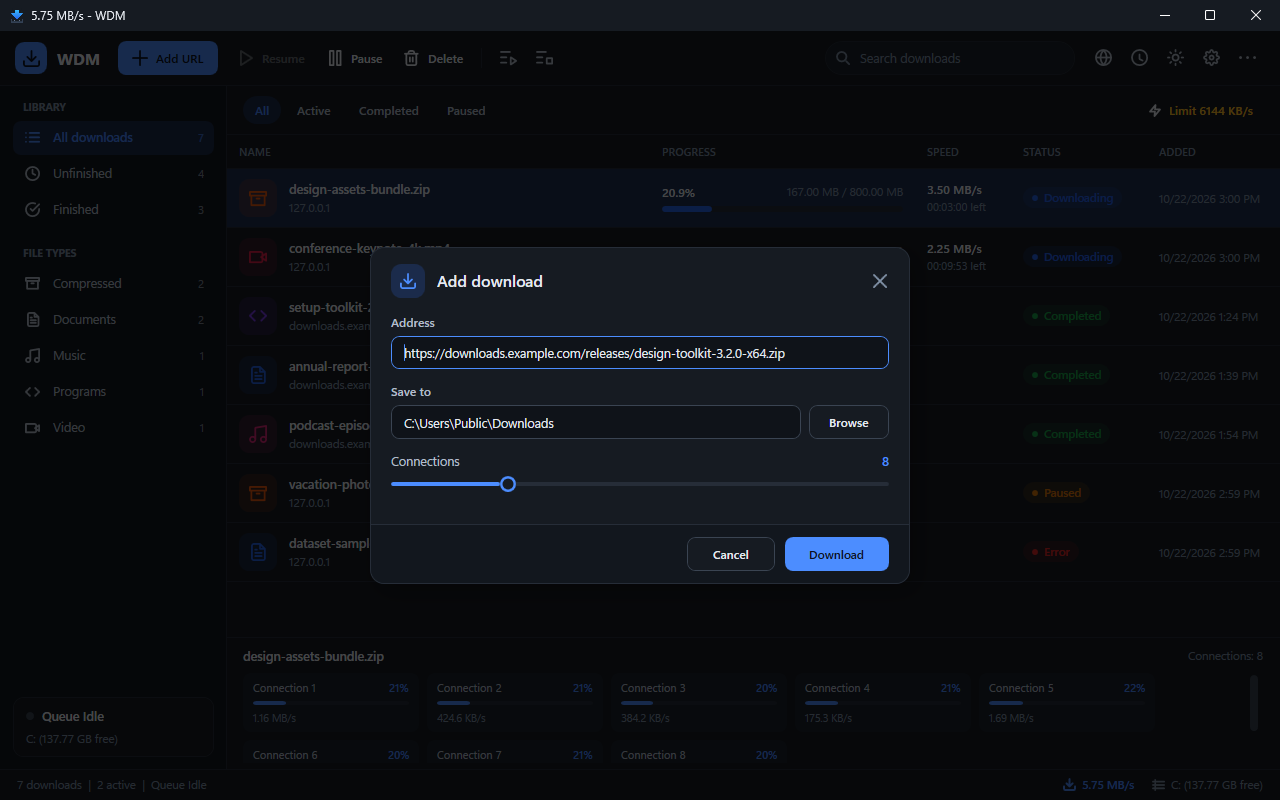
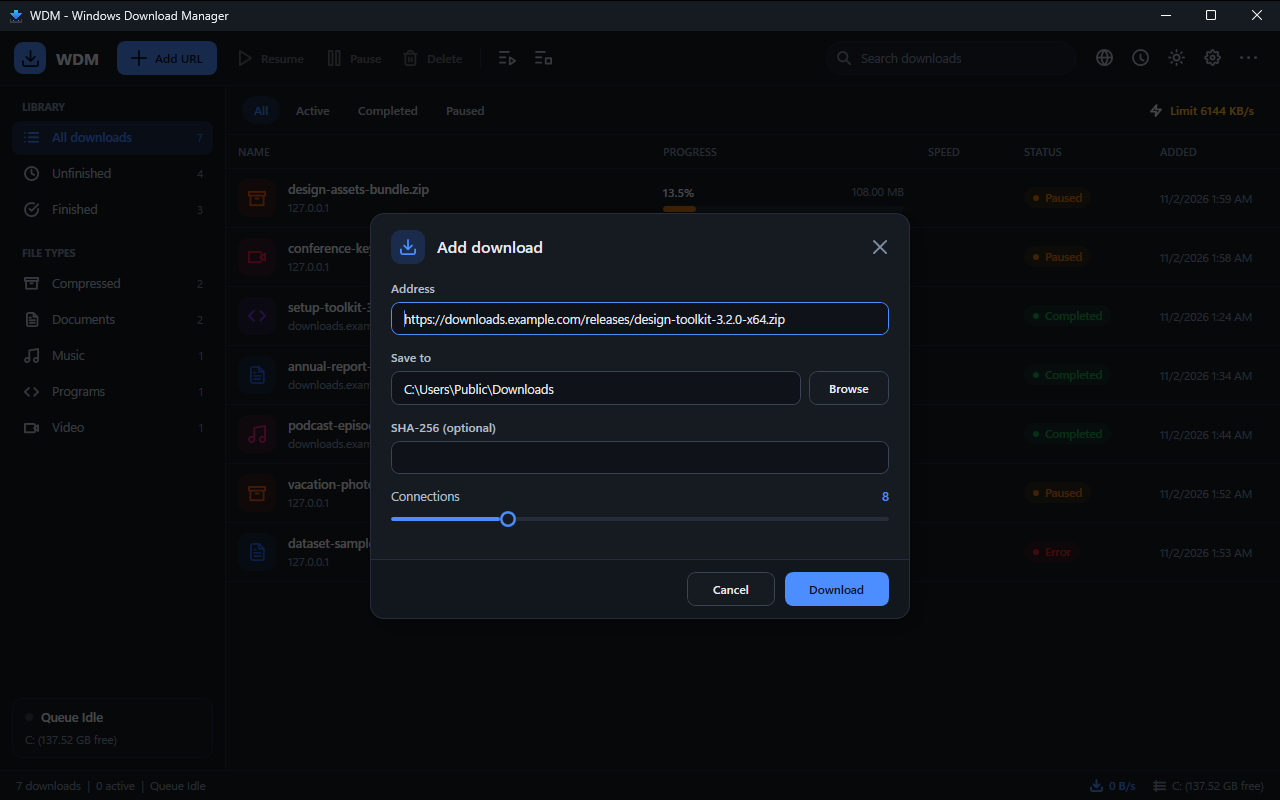
fix(ui): accessible names for toolbar buttons and every input, queue status without doubled bullet; docs: README facts (147 tests, takeover rules, signing status), real 2.0 screenshots

diff --git a/src/Wdm.Ui/MainWindow.xaml b/src/Wdm.Ui/MainWindow.xaml
@@ -46,25 +46,25 @@
 
                     <!-- Primary actions -->
                     <StackPanel Grid.Column="1" Orientation="Horizontal" VerticalAlignment="Center">
-                        <Button Style="{StaticResource AccentBtn}" Click="OnAddUrlClick" ToolTip="Add a download (Ctrl+N)" Margin="0,0,10,0">
+                        <Button Style="{StaticResource AccentBtn}" Click="OnAddUrlClick" ToolTip="Add a download (Ctrl+N)" Margin="0,0,10,0" AutomationProperties.Name="Add URL">
                             <StackPanel Orientation="Horizontal">
                                 <Path Data="{StaticResource GeoPlus}" Style="{StaticResource Ico}" Width="16" Height="16" />
                                 <TextBlock Text="Add URL" Margin="8,0,0,0" VerticalAlignment="Center"/>
                             </StackPanel>
                         </Button>
-                        <Button Style="{StaticResource CmdBtn}" Click="OnResumeClick" ToolTip="Resume the selected download" Margin="0,0,2,0" IsEnabled="{Binding CanResumeSelected}">
+                        <Button Style="{StaticResource CmdBtn}" Click="OnResumeClick" ToolTip="Resume the selected download" Margin="0,0,2,0" IsEnabled="{Binding CanResumeSelected}" AutomationProperties.Name="Resume">
                         <StackPanel Orientation="Horizontal">
                             <Path Data="{StaticResource GeoPlay}" Style="{StaticResource Ico}" Width="16" Height="16" />
                             <TextBlock Text="Resume" Margin="8,0,0,0" VerticalAlignment="Center"/>
                         </StackPanel>
                     </Button>
-                        <Button Style="{StaticResource CmdBtn}" Click="OnPauseClick" ToolTip="Pause the selected download" Margin="0,0,2,0" IsEnabled="{Binding CanPauseSelected}">
+                        <Button Style="{StaticResource CmdBtn}" Click="OnPauseClick" ToolTip="Pause the selected download" Margin="0,0,2,0" IsEnabled="{Binding CanPauseSelected}" AutomationProperties.Name="Pause">
                         <StackPanel Orientation="Horizontal">
                             <Path Data="{StaticResource GeoPause}" Style="{StaticResource Ico}" Width="16" Height="16" />
                             <TextBlock Text="Pause" Margin="8,0,0,0" VerticalAlignment="Center"/>
                         </StackPanel>
                     </Button>
-                        <Button Style="{StaticResource CmdBtn}" Click="OnDeleteClick" ToolTip="Remove the selected download (Del)" Margin="0,0,8,0" IsEnabled="{Binding HasSelection}">
+                        <Button Style="{StaticResource CmdBtn}" Click="OnDeleteClick" ToolTip="Remove the selected download (Del)" Margin="0,0,8,0" IsEnabled="{Binding HasSelection}" AutomationProperties.Name="Delete">
                         <StackPanel Orientation="Horizontal">
                             <Path Data="{StaticResource GeoTrash}" Style="{StaticResource Ico}" Width="16" Height="16" />
                             <TextBlock Text="Delete" Margin="8,0,0,0" VerticalAlignment="Center"/>
@@ -90,7 +90,7 @@
                             </Grid.ColumnDefinitions>
                             <Path Data="{StaticResource GeoSearch}" Style="{StaticResource Ico}" Width="14" Height="14" HorizontalAlignment="Center"
                                   TextElement.Foreground="{DynamicResource ThemeTextMuted}"/>
-                            <TextBox x:Name="SearchBox" Grid.Column="1" Text="{Binding SearchText, UpdateSourceTrigger=PropertyChanged}" Background="Transparent"
+                            <TextBox AutomationProperties.Name="Search downloads" x:Name="SearchBox" Grid.Column="1" Text="{Binding SearchText, UpdateSourceTrigger=PropertyChanged}" Background="Transparent"
                                      BorderThickness="0" Padding="0,0,0,1" VerticalAlignment="Center" ToolTip="Search downloads (Ctrl+F)"/>
                             <TextBlock Grid.Column="1" Text="Search downloads" IsHitTestVisible="False" Foreground="{DynamicResource ThemeTextMuted}" VerticalAlignment="Center">
                                 <TextBlock.Style>
@@ -406,7 +406,7 @@
                 <Border DockPanel.Dock="Top" Padding="16,10" BorderBrush="{DynamicResource ThemeBorder}" BorderThickness="0,0,0,1">
                     <DockPanel>
                         <Button DockPanel.Dock="Right" Style="{StaticResource CmdBtn}" Click="OnToggleSpeedLimiterClick" MinHeight="28" Padding="10,0"
-                                ToolTip="Click to turn the speed limit on or off">
+                                ToolTip="Click to turn the speed limit on or off" AutomationProperties.Name="Speed limit">
                             <StackPanel Orientation="Horizontal">
                                 <Path Data="{StaticResource GeoBolt}" Style="{StaticResource Ico}" Width="13" Height="13" />
                                 <TextBlock Margin="7,0,0,0" FontSize="12">
@@ -454,7 +454,7 @@
                 </Border>
 
                 <Grid>
-                    <DataGrid x:Name="DownloadsGrid" ItemsSource="{Binding FilteredDownloads}"
+                    <DataGrid AutomationProperties.Name="Downloads" x:Name="DownloadsGrid" ItemsSource="{Binding FilteredDownloads}"
                               SelectedItem="{Binding SelectedDownload, Mode=TwoWay}"
                               MouseDoubleClick="OnDownloadsGridMouseDoubleClick"
                               AutoGenerateColumns="False" CanUserAddRows="False" CanUserDeleteRows="False" IsReadOnly="True"
@@ -638,7 +638,7 @@
                             <ColumnDefinition Width="*"/>
                             <ColumnDefinition Width="Auto"/>
                         </Grid.ColumnDefinitions>
-                        <TextBox Text="{Binding NewDownloadDir, UpdateSourceTrigger=PropertyChanged}"/>
+                        <TextBox AutomationProperties.Name="Save to folder" Text="{Binding NewDownloadDir, UpdateSourceTrigger=PropertyChanged}"/>
                         <Button Grid.Column="1" Content="Browse" Margin="8,0,0,0" Style="{StaticResource BtnSecondary}" MinWidth="80" Click="OnBrowseFolderClick"/>
                     </Grid>
 
@@ -653,7 +653,7 @@
                             <TextBlock Text="{Binding NewDownloadConnections, StringFormat='{}{0}'}" FontWeight="SemiBold" Foreground="{DynamicResource ThemeAccent}" DockPanel.Dock="Right"/>
                             <TextBlock Text="Connections" Foreground="{DynamicResource ThemeTextSecondary}"/>
                         </DockPanel>
-                        <Slider Minimum="1" Maximum="32" Value="{Binding NewDownloadConnections}" Margin="0,0,0,10" SmallChange="1" TickFrequency="1" IsSnapToTickEnabled="True"/>
+                        <Slider AutomationProperties.Name="Connections" Minimum="1" Maximum="32" Value="{Binding NewDownloadConnections}" Margin="0,0,0,10" SmallChange="1" TickFrequency="1" IsSnapToTickEnabled="True"/>
                 </StackPanel>
                 <ctl:DialogCard.Footer>
                     <StackPanel Orientation="Horizontal" HorizontalAlignment="Right">
@@ -677,7 +677,7 @@
                                         <ColumnDefinition Width="*"/>
                                         <ColumnDefinition Width="Auto"/>
                                     </Grid.ColumnDefinitions>
-                                    <TextBox Text="{Binding Settings.DefaultDownloadDirectory, UpdateSourceTrigger=PropertyChanged}"/>
+                                    <TextBox AutomationProperties.Name="Default download folder" Text="{Binding Settings.DefaultDownloadDirectory, UpdateSourceTrigger=PropertyChanged}"/>
                                     <Button Grid.Column="1" Content="Browse" Margin="8,0,0,0" Style="{StaticResource BtnSecondary}" MinWidth="80" Click="OnBrowseSettingsFolderClick"/>
                                 </Grid>
                             </GroupBox>
@@ -698,17 +698,17 @@
                             <TextBlock Text="{Binding Settings.DefaultConnections, StringFormat='{}{0}'}" FontWeight="SemiBold" Foreground="{DynamicResource ThemeAccent}" DockPanel.Dock="Right"/>
                             <TextBlock Text="Connections per download" Foreground="{DynamicResource ThemeTextSecondary}"/>
                         </DockPanel>
-                        <Slider Minimum="1" Maximum="32" Value="{Binding Settings.DefaultConnections}" Margin="0,0,0,10" SmallChange="1" TickFrequency="1" IsSnapToTickEnabled="True"/>
+                        <Slider AutomationProperties.Name="Default connections" Minimum="1" Maximum="32" Value="{Binding Settings.DefaultConnections}" Margin="0,0,0,10" SmallChange="1" TickFrequency="1" IsSnapToTickEnabled="True"/>
                                     <DockPanel Margin="0,0,0,2">
                             <TextBlock Text="{Binding Settings.MaxConcurrentDownloads, StringFormat='{}{0}'}" FontWeight="SemiBold" Foreground="{DynamicResource ThemeAccent}" DockPanel.Dock="Right"/>
                             <TextBlock Text="Simultaneous downloads" Foreground="{DynamicResource ThemeTextSecondary}"/>
                         </DockPanel>
-                        <Slider Minimum="1" Maximum="10" Value="{Binding Settings.MaxConcurrentDownloads}" Margin="0,0,0,10" SmallChange="1" TickFrequency="1" IsSnapToTickEnabled="True"/>
+                        <Slider AutomationProperties.Name="Simultaneous downloads" Minimum="1" Maximum="10" Value="{Binding Settings.MaxConcurrentDownloads}" Margin="0,0,0,10" SmallChange="1" TickFrequency="1" IsSnapToTickEnabled="True"/>
                                     <DockPanel Margin="0,0,0,2">
                             <TextBlock Text="{Binding Settings.NetworkTimeoutSeconds, StringFormat='{}{0} s'}" FontWeight="SemiBold" Foreground="{DynamicResource ThemeAccent}" DockPanel.Dock="Right"/>
                             <TextBlock Text="Stalled connection timeout" Foreground="{DynamicResource ThemeTextSecondary}"/>
                         </DockPanel>
-                        <Slider Minimum="5" Maximum="120" Value="{Binding Settings.NetworkTimeoutSeconds}" Margin="0,0,0,10" SmallChange="1" TickFrequency="1" IsSnapToTickEnabled="True"/>
+                        <Slider AutomationProperties.Name="Network timeout in seconds" Minimum="5" Maximum="120" Value="{Binding Settings.NetworkTimeoutSeconds}" Margin="0,0,0,10" SmallChange="1" TickFrequency="1" IsSnapToTickEnabled="True"/>
                                     <CheckBox Content="Split active segments to keep every connection busy" IsChecked="{Binding Settings.EnableDynamicMiddleSplit}"/>
                                 </StackPanel>
                             </GroupBox>
@@ -717,7 +717,7 @@
                                     <CheckBox Content="Limit total download speed" IsChecked="{Binding IsSpeedLimiterEnabled}" Margin="0,0,0,12"/>
                                     <DockPanel>
                                         <TextBlock Text="KB/s" DockPanel.Dock="Right" VerticalAlignment="Center" Margin="8,0,0,0" Foreground="{DynamicResource ThemeTextMuted}"/>
-                                        <TextBox Text="{Binding SpeedLimitKb, UpdateSourceTrigger=PropertyChanged}" Width="100" DockPanel.Dock="Right"/>
+                                        <TextBox AutomationProperties.Name="Speed limit in KB per second" Text="{Binding SpeedLimitKb, UpdateSourceTrigger=PropertyChanged}" Width="100" DockPanel.Dock="Right"/>
                                         <TextBlock Text="Maximum speed" VerticalAlignment="Center" Foreground="{DynamicResource ThemeTextSecondary}"/>
                                     </DockPanel>
                                 </StackPanel>
@@ -727,7 +727,7 @@
                     <TabItem Header="Network">
                         <GroupBox Header="USER AGENT" Padding="14">
                             <StackPanel>
-                                <TextBox Text="{Binding Settings.UserAgent, UpdateSourceTrigger=PropertyChanged}" TextWrapping="Wrap" AcceptsReturn="False"/>
+                                <TextBox AutomationProperties.Name="User agent" Text="{Binding Settings.UserAgent, UpdateSourceTrigger=PropertyChanged}" TextWrapping="Wrap" AcceptsReturn="False"/>
                                 <TextBlock Text="Sent with every request unless the browser supplies its own." FontSize="11.5" Margin="2,8,0,0" Foreground="{DynamicResource ThemeTextMuted}"/>
                             </StackPanel>
                         </GroupBox>
@@ -755,7 +755,7 @@
                                     <ColumnDefinition Width="110"/>
                                 </Grid.ColumnDefinitions>
                                 <TextBlock Text="Start at" VerticalAlignment="Center" Foreground="{DynamicResource ThemeTextSecondary}"/>
-                                <TextBox Grid.Column="1" Text="{Binding SchedulerStartTime, UpdateSourceTrigger=PropertyChanged}" HorizontalContentAlignment="Center"/>
+                                <TextBox AutomationProperties.Name="Start time" Grid.Column="1" Text="{Binding SchedulerStartTime, UpdateSourceTrigger=PropertyChanged}" HorizontalContentAlignment="Center"/>
                             </Grid>
                             <Grid>
                                 <Grid.ColumnDefinitions>
@@ -763,7 +763,7 @@
                                     <ColumnDefinition Width="110"/>
                                 </Grid.ColumnDefinitions>
                                 <TextBlock Text="Stop at" VerticalAlignment="Center" Foreground="{DynamicResource ThemeTextSecondary}"/>
-                                <TextBox Grid.Column="1" Text="{Binding SchedulerStopTime, UpdateSourceTrigger=PropertyChanged}" HorizontalContentAlignment="Center"/>
+                                <TextBox AutomationProperties.Name="Stop time" Grid.Column="1" Text="{Binding SchedulerStopTime, UpdateSourceTrigger=PropertyChanged}" HorizontalContentAlignment="Center"/>
                             </Grid>
                             <TextBlock Text="24-hour format, for example 02:00 or 18:30." FontSize="11.5" Margin="0,10,0,0" Foreground="{DynamicResource ThemeTextMuted}"/>
                         </StackPanel>
@@ -791,13 +791,13 @@
                             <ColumnDefinition Width="*"/>
                             <ColumnDefinition Width="Auto"/>
                         </Grid.ColumnDefinitions>
-                        <TextBox x:Name="GrabberBox" Text="{Binding GrabberUrl, UpdateSourceTrigger=PropertyChanged}"/>
+                        <TextBox AutomationProperties.Name="Page address" x:Name="GrabberBox" Text="{Binding GrabberUrl, UpdateSourceTrigger=PropertyChanged}"/>
                         <Button Grid.Column="1" Content="Scan page" Margin="8,0,0,0" Style="{StaticResource BtnPrimary}" MinWidth="100"
                                 Click="OnAnalyzeGrabberClick" IsEnabled="{Binding IsGrabberBusy, Converter={StaticResource InvBool}}"/>
                     </Grid>
                     <TextBlock Text="{Binding GrabberStatusText}" FontSize="12" Foreground="{DynamicResource ThemeTextMuted}" Margin="2,0,0,10" TextWrapping="Wrap"/>
                     <Border BorderBrush="{DynamicResource ThemeBorder}" BorderThickness="1" CornerRadius="10" Height="250" ClipToBounds="True">
-                        <DataGrid ItemsSource="{Binding GrabberItems}" AutoGenerateColumns="False" CanUserAddRows="False" CanUserDeleteRows="False"
+                        <DataGrid AutomationProperties.Name="Files found on the page" ItemsSource="{Binding GrabberItems}" AutoGenerateColumns="False" CanUserAddRows="False" CanUserDeleteRows="False"
                                   HeadersVisibility="Column" GridLinesVisibility="None" BorderThickness="0" Background="Transparent"
                                   SelectionMode="Single" RowHeight="34" VerticalScrollBarVisibility="Auto" CanUserSortColumns="False">
                             <DataGrid.Columns>
@@ -861,7 +861,7 @@
                         <ColumnDefinition Width="*"/>
                     </Grid.ColumnDefinitions>
                     <TextBlock Text="Address" Foreground="{DynamicResource ThemeTextMuted}" VerticalAlignment="Top"/>
-                    <TextBox Grid.Column="1" Text="{Binding PropertiesItem.Url, Mode=OneWay}" IsReadOnly="True" TextWrapping="Wrap" Padding="8,6"/>
+                    <TextBox AutomationProperties.Name="Download address" Grid.Column="1" Text="{Binding PropertiesItem.Url, Mode=OneWay}" IsReadOnly="True" TextWrapping="Wrap" Padding="8,6"/>
                 </Grid>
                     <Grid Margin="0,0,0,10">
                     <Grid.ColumnDefinitions>
@@ -890,7 +890,7 @@
                                 Foreground="{DynamicResource ThemeAccent}" FontSize="12" Click="OnExtractBatchClipboardClick"/>
                         <TextBlock Text="One address per line" FontSize="12" FontWeight="Medium" Foreground="{DynamicResource ThemeTextSecondary}" Margin="0"/>
                     </DockPanel>
-                    <TextBox x:Name="BatchBox" Text="{Binding BatchUrlsText, UpdateSourceTrigger=PropertyChanged}" AcceptsReturn="True"
+                    <TextBox AutomationProperties.Name="Addresses, one per line" x:Name="BatchBox" Text="{Binding BatchUrlsText, UpdateSourceTrigger=PropertyChanged}" AcceptsReturn="True"
                              VerticalScrollBarVisibility="Auto" Height="170" FontFamily="Cascadia Mono, Consolas, monospace" FontSize="12"
                              VerticalContentAlignment="Top" TextWrapping="NoWrap" HorizontalScrollBarVisibility="Auto"/>
                     <TextBlock Text="{Binding BatchUrlCount, StringFormat='{}{0} valid addresses'}" FontSize="12" FontWeight="SemiBold"
@@ -901,7 +901,7 @@
                             <ColumnDefinition Width="*"/>
                             <ColumnDefinition Width="Auto"/>
                         </Grid.ColumnDefinitions>
-                        <TextBox Text="{Binding NewDownloadDir, UpdateSourceTrigger=PropertyChanged}"/>
+                        <TextBox AutomationProperties.Name="Save to folder" Text="{Binding NewDownloadDir, UpdateSourceTrigger=PropertyChanged}"/>
                         <Button Grid.Column="1" Content="Browse" Margin="8,0,0,0" Style="{StaticResource BtnSecondary}" MinWidth="80" Click="OnBrowseFolderClick"/>
                     </Grid>
                 </StackPanel>

diff --git a/tests/Wdm.Tests/XamlAccessibilityTests.cs b/tests/Wdm.Tests/XamlAccessibilityTests.cs
@@ -1,0 +1,57 @@
+using System.Xml.Linq;
+using Xunit;
+
+namespace Wdm.Tests;
+
+/// <summary>
+/// Screen readers get a button's name from AutomationProperties.Name, a Content text, or a text child. A button that has none of them
+/// is announced as just "button": the toolbar's Add URL, Resume, Pause and Delete were exactly that until 2.0.1.
+/// </summary>
+public class XamlAccessibilityTests
+{
+    private static string RepoRoot()
+    {
+        var dir = new DirectoryInfo(AppContext.BaseDirectory);
+        while (dir != null && !File.Exists(Path.Combine(dir.FullName, "Wdm.slnx"))) dir = dir.Parent;
+        return dir?.FullName ?? throw new InvalidOperationException("Wdm.slnx not found above the test output folder");
+    }
+
+    private static bool HasName(XElement button)
+    {
+        XNamespace x = "http://schemas.microsoft.com/winfx/2006/xaml/presentation";
+        if (button.Attributes().Any(a => a.Name.LocalName == "AutomationProperties.Name")) return true;
+        if (button.Attribute("Content") != null) return true;
+        return button.Descendants(x + "TextBlock").Any(t => t.Attribute("Text") != null);
+    }
+
+    [Theory]
+    [InlineData("MainWindow.xaml")]
+    public void EveryButton_HasAnAccessibleName(string file)
+    {
+        var doc = XDocument.Load(Path.Combine(RepoRoot(), "src", "Wdm.Ui", file));
+        XNamespace x = "http://schemas.microsoft.com/winfx/2006/xaml/presentation";
+        var unnamed = doc.Descendants(x + "Button").Where(b => !HasName(b)).Select(b => b.Attribute("Click")?.Value ?? b.ToString()[..Math.Min(80, b.ToString().Length)]).ToList();
+        Assert.True(unnamed.Count == 0, "Buttons without a name: " + string.Join(", ", unnamed));
+    }
+
+    [Fact]
+    public void EveryInputControl_HasAnAutomationName()
+    {
+        // A label next to a text box is not read with it: the control itself needs the name (a slider or grid likewise).
+        var doc = XDocument.Load(Path.Combine(RepoRoot(), "src", "Wdm.Ui", "MainWindow.xaml"));
+        XNamespace x = "http://schemas.microsoft.com/winfx/2006/xaml/presentation";
+        var inputs = new[] { "TextBox", "PasswordBox", "ComboBox", "Slider", "DataGrid" };
+        var unnamed = doc.Descendants().Where(e => e.Name.Namespace == x && inputs.Contains(e.Name.LocalName))
+            .Where(e => !e.Attributes().Any(a => a.Name.LocalName == "AutomationProperties.Name"))
+            .Select(e => e.Name.LocalName + " " + (e.Attribute("Text")?.Value ?? e.Attribute("Value")?.Value ?? e.Attribute("ItemsSource")?.Value ?? "")).ToList();
+        Assert.True(unnamed.Count == 0, "Input controls without an AutomationProperties.Name: " + string.Join("; ", unnamed));
+    }
+
+    [Fact]
+    public void ToolbarButtons_CarryExplicitAutomationNames()
+    {
+        var xaml = File.ReadAllText(Path.Combine(RepoRoot(), "src", "Wdm.Ui", "MainWindow.xaml"));
+        foreach (var name in new[] { "Add URL", "Resume", "Pause", "Delete" })
+            Assert.Contains($"AutomationProperties.Name=\"{name}\"", xaml);
+    }
+}

diff --git a/src/Wdm.Ui/ViewModels/MainViewModel.cs b/src/Wdm.Ui/ViewModels/MainViewModel.cs
@@ -228,7 +228,7 @@ public partial class MainViewModel : INotifyPropertyChanged
             }
         }
     }
-    public string QueueStatusText => IsQueueActive ? "● Queue Active" : "Queue Idle";
+    public string QueueStatusText => IsQueueActive ? "Queue Active" : "Queue Idle";
 
     // Scheduler Modal Properties
     private bool _isSchedulerModalOpen;

diff --git a/README.md b/README.md
@@ -14,7 +14,7 @@ options, settings keys and native-messaging layout), but it shares no code, asse
 
 ## Download
 
-Get the installer from the [latest release](https://github.com/md-anamul-hasan/wdm/releases/latest) (Windows 10/11, 64-bit; self-contained, no .NET install needed) and check it against `SHA256SUMS.txt`. Release builds are code-signed with a free certificate from the [SignPath Foundation](https://signpath.org/) (see [Code signing policy](#code-signing-policy)). Earlier releases (1.0.0, 1.0.1) are unsigned, so Windows SmartScreen may warn about an unknown publisher for those.
+Get the installer from the [latest release](https://github.com/md-anamul-hasan/wdm/releases/latest) (Windows 10/11, 64-bit; self-contained, no .NET install needed) and check it against `SHA256SUMS.txt`. Release builds are to be code-signed with a free certificate from the [SignPath Foundation](https://signpath.org/) (see [Code signing policy](#code-signing-policy)). No release up to 2.0.0 is signed yet (the signing step starts once the SignPath Foundation approves the project), so Windows SmartScreen may warn about an unknown publisher: check the installer against `SHA256SUMS.txt`.
 
 ## What it does
 
@@ -55,8 +55,8 @@ Release for a website: `.\scripts\package-release.ps1` writes `dist\release\` wi
 
 Chrome Web Store submission: `.\scripts\package-extension.ps1` builds the store zip, and `store/chrome/listing.md` has the listing text, permission justifications and reviewer instructions.
 
-Install the extension from the [Chrome Web Store](https://chromewebstore.google.com/detail/wdm-download-manager-inte/flnbghmpkajibfdfhbcfhkcjkhlokfgi) (Chrome, Edge, Brave), or load it manually: `chrome://extensions` → Developer mode → **Load unpacked** → select `extension\`.
-The manifest pins the extension ID (`kdjgcdbahccolkkagbckkchfpcchcfne`) that `Wdm.NativeHost --register` authorizes.
+Install the extension from the [Chrome Web Store](https://chromewebstore.google.com/detail/wdm-download-manager-inte/flnbghmpkajibfdfhbcfhkcjkhlokfgi) ("WDM Download Manager Integration"; Chrome, Edge, Brave), or load it manually: `chrome://extensions` → Developer mode → **Load unpacked** → select `extension\`.
+`Wdm.NativeHost --register` authorizes both the store extension (`flnbghmpkajibfdfhbcfhkcjkhlokfgi`) and the sideloaded one (`kdjgcdbahccolkkagbckkchfpcchcfne`, pinned by the manifest key).
 Use `Wdm.NativeHost --unregister` to remove the registration.
 
 Set `WDM_DATA_DIR` to relocate settings and the download list (portable mode / testing).
@@ -69,7 +69,7 @@ src/Wdm.Ui          WPF app (MVVM): MainWindow, MainViewModel, DownloadItemViewM
 src/Wdm.Cli         terminal downloader
 src/Wdm.NativeHost  browser <-> WDM bridge + registration
 extension/          MV3 browser extension (Chrome/Edge/Brave; Firefox id included)
-tests/Wdm.Tests     xUnit (45 tests): segmentation, storage/resume, end-to-end and unknown-length downloads, speed limiter,
+tests/Wdm.Tests     xUnit (147 tests): segmentation, storage/resume, end-to-end and unknown-length downloads, speed limiter,
                     file-name handling, cookie/credential scoping, IPC, settings
 scripts/            publish.ps1 (publish + register), build-installer.ps1 (Inno Setup installer),
                     fetch-tools.ps1 (downloads yt-dlp + ffmpeg for both)
@@ -81,7 +81,7 @@ Directory.Build.props  single source of the product version
 
 - YouTube-style pages are fetched with `yt-dlp`; `scripts/publish.ps1` and the installer bundle `ffmpeg.exe` beside it, which joins the separate video and audio streams (a copy on `PATH` also works; without ffmpeg the download fails with a hint).
 - No tray icon, proxy settings or per-site logins UI yet (credentials are supported by the engine via `DownloadRequestOptions`).
-- The browser takeover list is a fixed default file-type list in `extension/background.js` (not yet editable from the app).
+- Which downloads the extension takes over is set in the extension popup (takeover rules), not in the app.
 - Firefox support is declared in the manifest but not verified in this repository.
 
 ## License
@@ -92,6 +92,7 @@ Directory.Build.props  single source of the product version
 
 Free code signing for release builds is provided by [SignPath.io](https://about.signpath.io/), with a certificate from the [SignPath Foundation](https://signpath.org/).
 
+- Status: signing is not active yet; the installers published so far are unsigned. The workflow signs a release only when the repository variable `SIGNPATH_ORGANIZATION_ID` is set, which happens after approval.
 - Releases are built and signed only by the GitHub Actions workflow `.github/workflows/release.yml` from tagged commits of this repository.
 - Only WDM's own binaries and its installer are signed; bundled third-party tools are not.
 - Maintainer and approver: Md Anamul Hasan ([@md-anamul-hasan](https://github.com/md-anamul-hasan)).

diff --git a/CHANGELOG.md b/CHANGELOG.md
@@ -2,6 +2,10 @@
 
 ## Unreleased
 
+### Fixed
+- Screen readers: the toolbar buttons Add URL, Resume, Pause and Delete and the speed-limit button now have accessible names, and every input control (search, folders, connection sliders, speed limit, user agent, scheduler times, site grabber address, batch addresses, download list) has one; `XamlAccessibilityTests` fails when a button or input in `MainWindow.xaml` has none (AUD-026, completed for the main window).
+- The sidebar showed a doubled bullet while the queue ran ("● ● Queue Active"): the status text no longer carries its own bullet.
+
 ### Changed
 - Extension 2.0.1 (Chrome Web Store build): the popup's "Never take over downloads from <site>" button wraps long host names instead of overflowing; tighter spacing in the rules section.
 - `scripts/make-store-media.ps1`: store screenshots now show the takeover rules (replacing the batch screenshot), the marquee mentions rules and SHA-256, and the script checks that every source image exists before it clears `store/chrome`.
